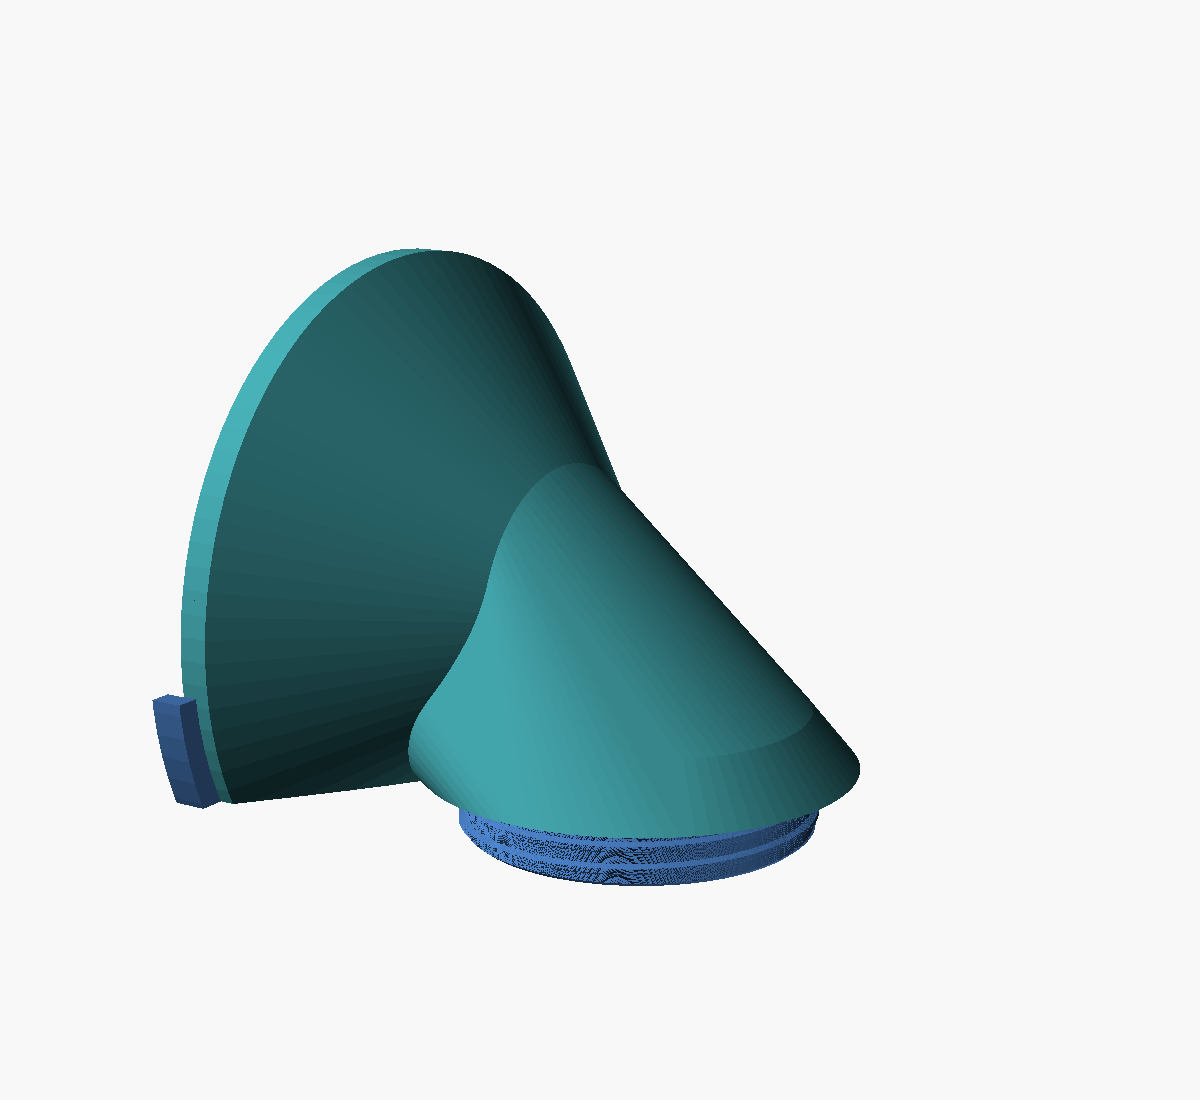
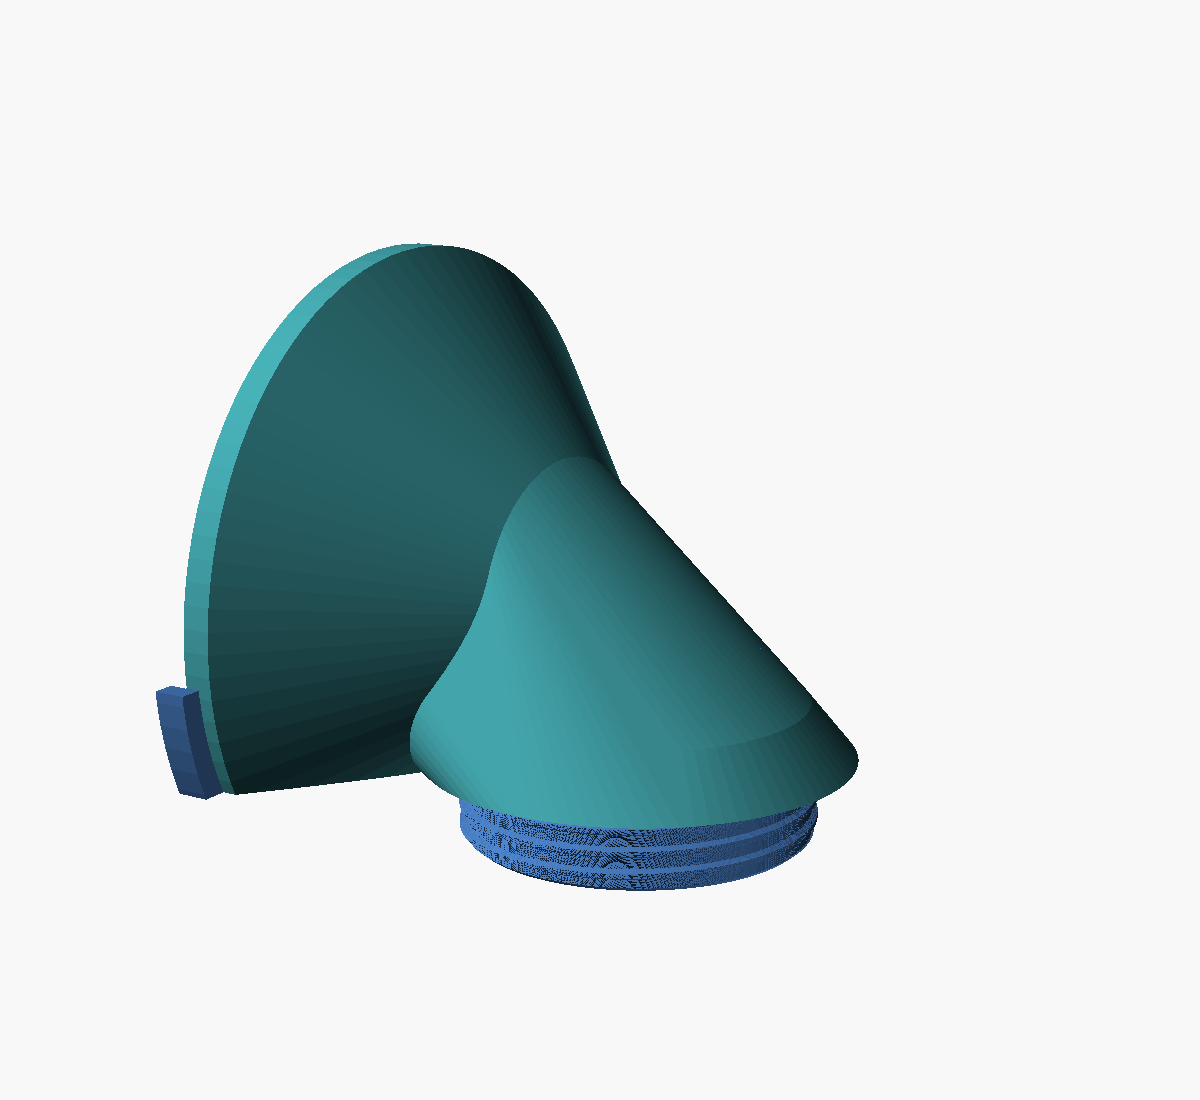
corner_bend: a longer neck for more thread, and a real recess for the pipe end
Two things measured on the printed part.

The neck was 9 mm -- three turns at a 3 mm pitch -- and did not reach far
enough through the panel for the nut to take it. stuss_depth goes 7 -> 9,
which is the whole of the extra length because every millimetre of the neck
is thread: 11 mm, 3.7 turns. The count is derived now (thread_turns) and
echoed on every render, so it is a number you can read rather than one you
have to divide out.

The recess in the glue face that clears the cut conduit end was Ø40.8 and
`pipe_stub + 0.7` deep -- 1.6 mm, a fudge factor on a measurement of how
proud the pipe stands. A conduit is never cut as square as the drawing says,
and the flange has to bed on the mount, not on the pipe's ragged end, so the
recess gets its own depth: Ø42.8 x 2 mm. Two asserts hold it between the
stub it must clear and the glue plate it must not eat -- what is left behind
it is the annular seat the pipe butts against, 2 mm of the 4 mm plate.

The line above the cut, at_glue(-0.1, ...), was a cylinder of negative
height: OpenSCAD renders nothing for it, so it removed nothing. Folded into
the one cut that was doing the work.

diff --git a/CORNER_BEND.md b/CORNER_BEND.md
@@ -451,6 +451,20 @@ The two changes are worth about the same, and they compound:
 Along the inlet the shell comes out at exactly **Ø40** — the conduit's own outside diameter,
 so it reads as the pipe carrying on, and it sits tangent to the back panel.
 
+## The screw, and the pipe's own end
+
+The threaded neck is `plate_thickness + stuss_depth` long — every millimetre of it is thread,
+so `stuss_depth` alone decides how many turns there are to run the nut down. At 9 mm it
+carries **11 mm of thread, 3.7 turns at 3 mm pitch**; the 6 mm nut takes 2 of them and the
+rest is there to reach through a panel thicker than the drawing's 2 mm. The turn count is
+echoed on every render.
+
+The glue face is counterbored **Ø42.8 × 2 mm deep** for the cut conduit end. Its depth is
+given outright rather than derived from `pipe_stub`, because a conduit is never cut as square
+as the drawing says and the flange has to bed on the *mount*, not on the pipe's ragged end.
+What is left behind it — 2 mm of the 4 mm glue plate — is the annular seat the pipe butts
+against, and an assert keeps it from being cut away.
+
 ## How it locates itself
 
 A lip wraps the flange's rim, along the **bottom** of the flange only, because that is where
@@ -472,7 +486,7 @@ under the ~50° an FDM printer manages unaided, so there is no support inside th
 which is where support is miserable to remove. The angle is echoed on every render with a
 warning past 50°.
 
-But the whole bottom face still floats 9 mm up on a Ø46 ring, and that costs **29.9 cm²** of
+But the whole bottom face still floats 11 mm up on a Ø46 ring, and that costs **29.9 cm²** of
 support. Rotate it onto its glue face instead (`rotate([0,-90,0])`, lip off) and the same
 part needs **8.3 cm²** — the same lesson as the elbow, and it applies to a part you have
 already printed.
